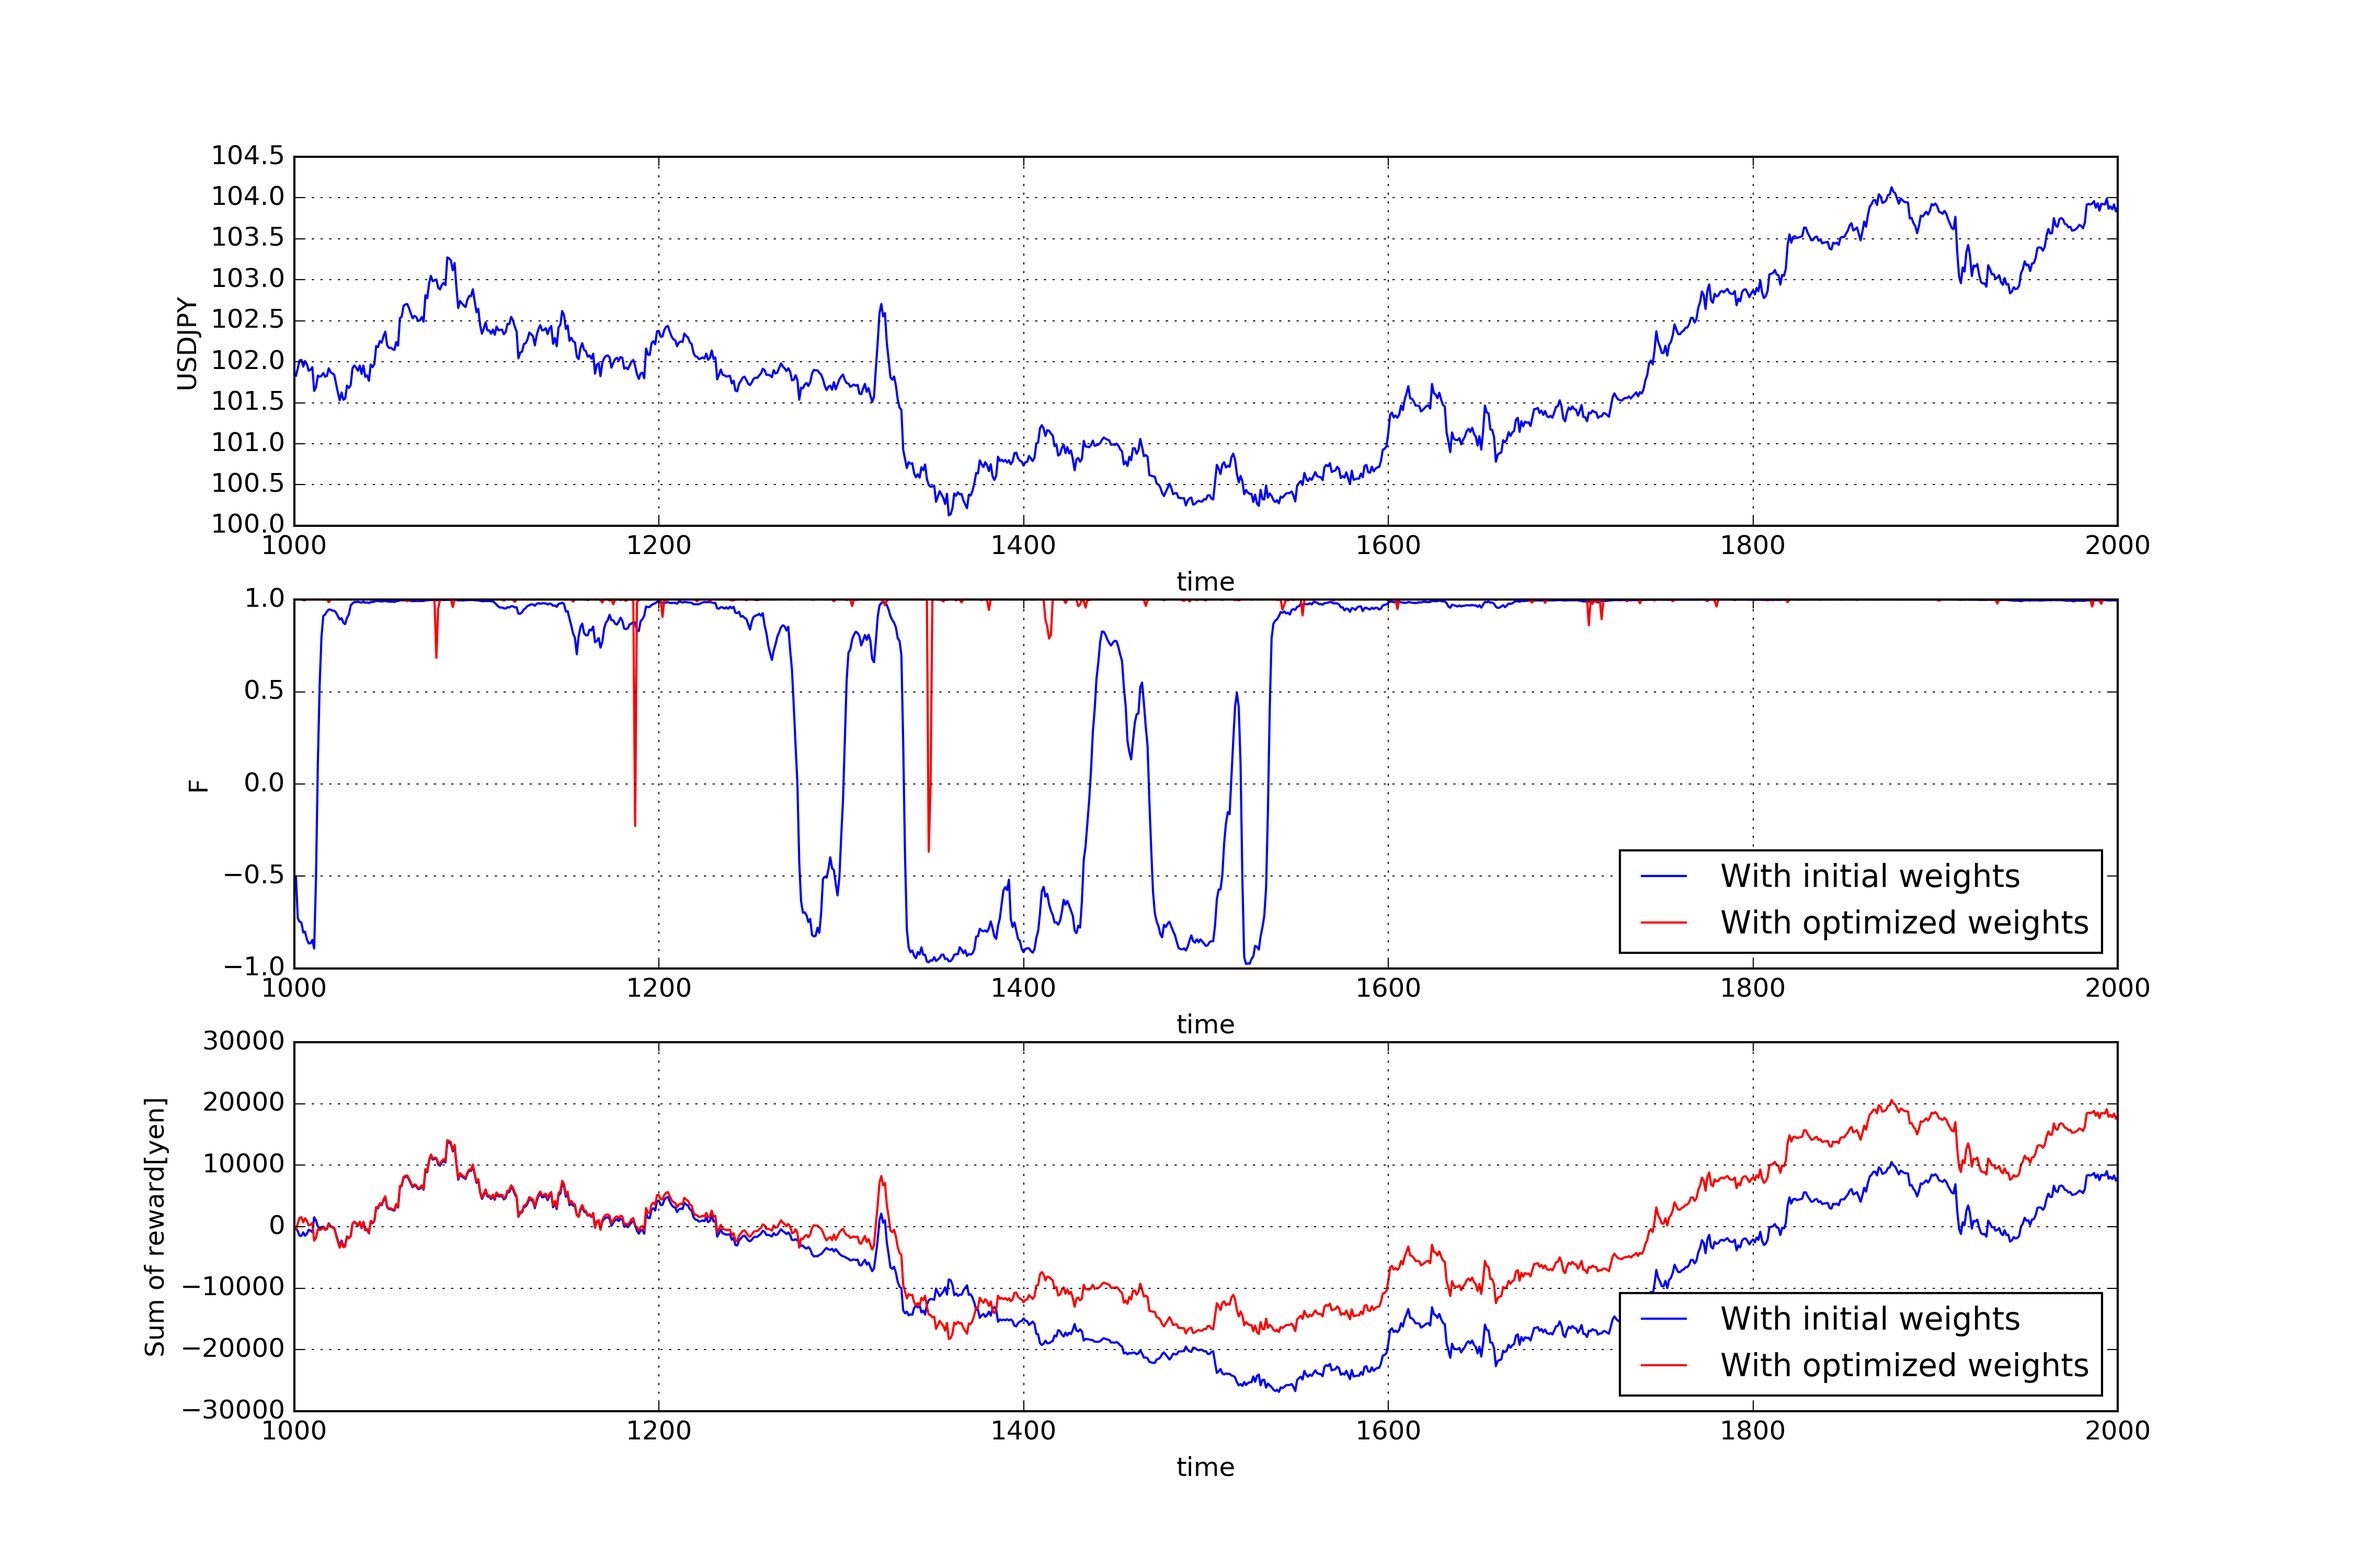
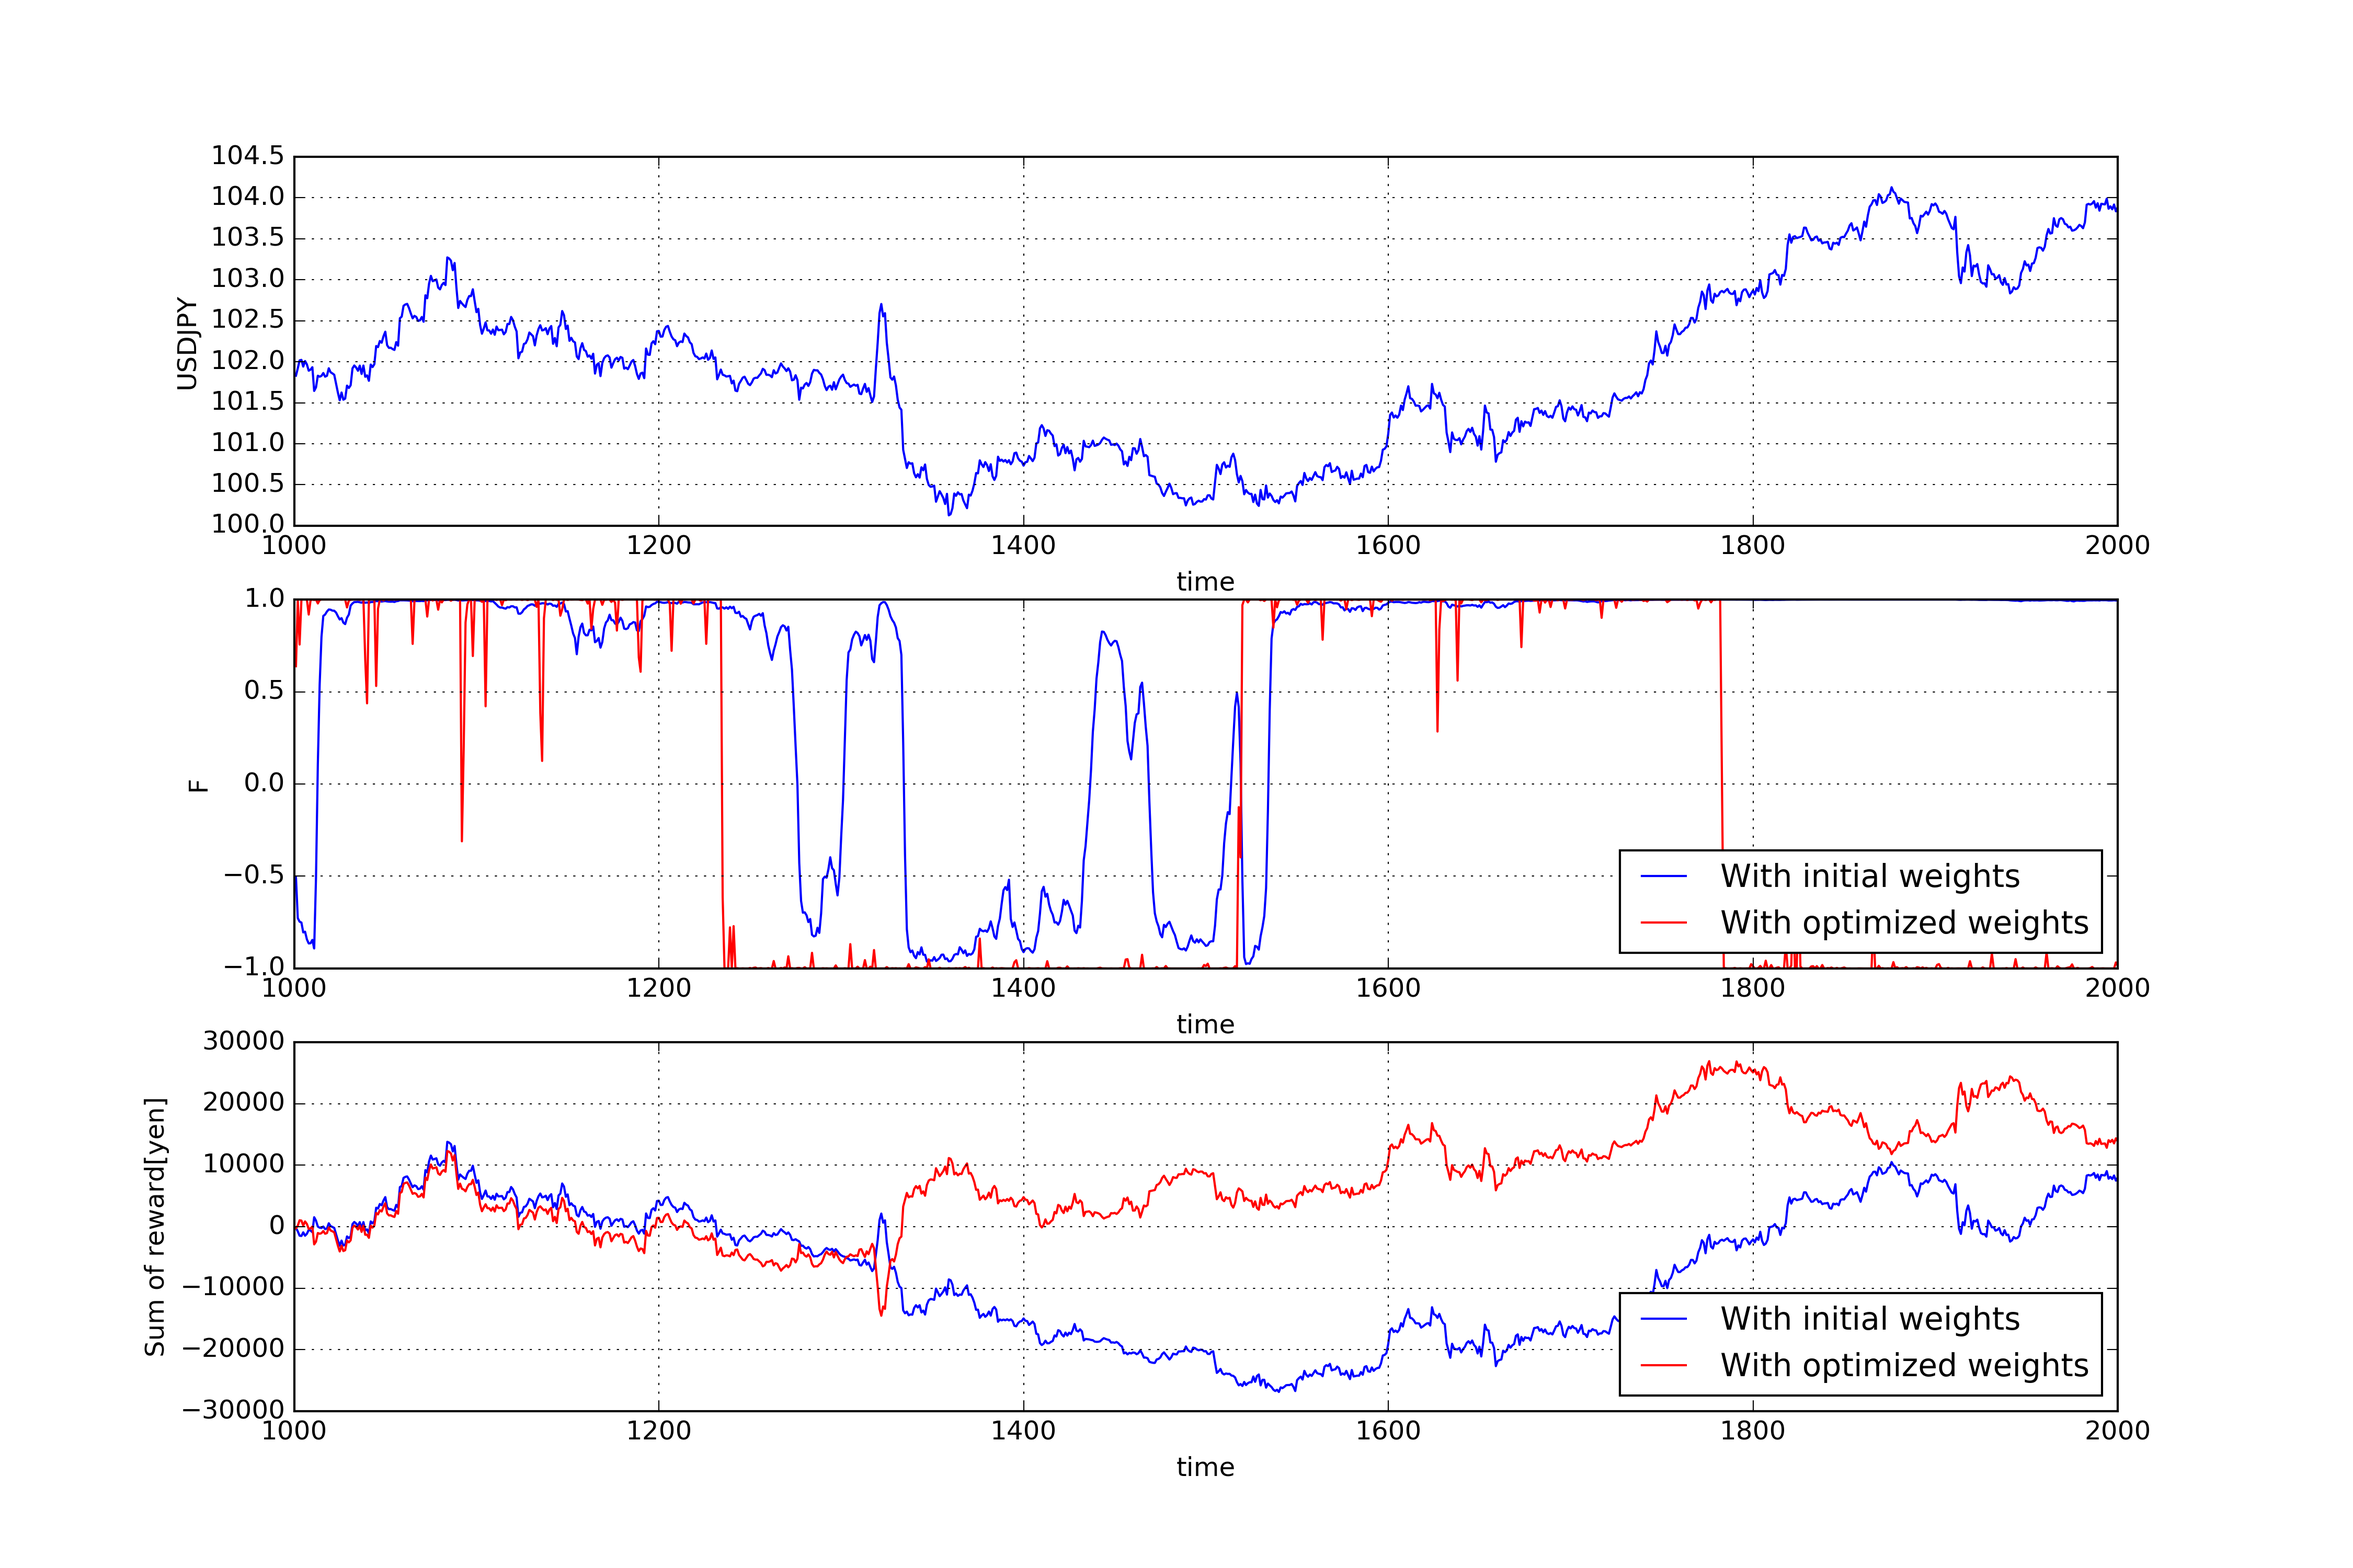
Modify GA fit.

diff --git a/06_ga_optimizer/main.py b/06_ga_optimizer/main.py
@@ -28,66 +28,23 @@ def main():
     rrl.all_p = ini_rrl.all_p
     rrl.set_t_p_r()
     
-    #----GA fit
-    import random
-
-    from deap import algorithms
-    from deap import base
-    from deap import creator
-    from deap import tools
-
-    creator.create("FitnessMax", base.Fitness, weights=(1.0,))
-    creator.create("Individual", np.ndarray, fitness=creator.FitnessMax)
-
-    toolbox = base.Toolbox()
-
-    # toolbox.register("attr_bool", random.randint, 0, 1)
-    toolbox.register("attr_bool", random.uniform, -3, 3)
-    toolbox.register("individual", tools.initRepeat, creator.Individual, toolbox.attr_bool, n=M+2)
-    toolbox.register("population", tools.initRepeat, list, toolbox.individual)
-
-    def evalOneMax(individual):
-        return rrl.calc_S(individual),
-    #     return sum(individual),
-
-    def cxTwoPointCopy(ind1, ind2):
-        size = len(ind1)
-        cxpoint1 = random.randint(1, size)
-        cxpoint2 = random.randint(1, size - 1)
-        if cxpoint2 >= cxpoint1:
-            cxpoint2 += 1
-        else: # Swap the two cx points
-            cxpoint1, cxpoint2 = cxpoint2, cxpoint1
-
-        ind1[cxpoint1:cxpoint2], ind2[cxpoint1:cxpoint2] \
-            = ind2[cxpoint1:cxpoint2].copy(), ind1[cxpoint1:cxpoint2].copy()
-
-        return ind1, ind2
-
-
-    toolbox.register("evaluate", evalOneMax)
-    toolbox.register("mate", cxTwoPointCopy)
-    toolbox.register("mutate", tools.mutFlipBit, indpb=0.05)
-    toolbox.register("select", tools.selTournament, tournsize=3)
-
-
-    random.seed(64)
-
-    pop = toolbox.population(n=100)
-    hof = tools.HallOfFame(1, similar=np.array_equal)
-
-    stats = tools.Statistics(lambda ind: ind.fitness.values)
-    stats.register("avg", np.mean)
-    stats.register("std", np.std)
-    stats.register("min", np.min)
-    stats.register("max", np.max)
-
-    population, logbook = algorithms.eaSimple(pop, toolbox, cxpb=0.5, mutpb=0.2, ngen=100, stats=stats, halloffame=hof)
-
+    #--- GA fit
+    min_w = np.ones(M+2)*-3.0
+    max_w= np.ones(M+2)*3.0
+    min_w[0]     = -5.0
+    max_w[0]     =  5.0
+    min_w[M+2-1] = -5.0
+    max_w[M+2-1] =  5.0
+    
+    npop = 100
+    ngen = 100
+    random_state = 64
+    rrl, population, logbook = ga_fit(rrl, min_w, max_w, random_state, npop, ngen)
+    
     # Plot results.
     # Training for initial term T.
-    df =pd.DataFrame(logbook)
-    plt.plot((df["gen"])*100,df["max"])
+    df = pd.DataFrame(logbook)
+    plt.plot((df["gen"])*npop,df["max"])
     plt.title("Sharp's ratio optimization")
     plt.xlabel("Epoch times")
     plt.ylabel("Sharp's ratio")
@@ -157,6 +114,66 @@ def main():
     ax[2].grid(True)
     plt.savefig("rrl_prediction.png", dpi=300)
     fig.clear()
+
+
+def ga_fit(_rrl, min_ind, max_ind, random_state, npop, ngen):
+    import random
+
+    from deap import algorithms
+    from deap import base
+    from deap import creator
+    from deap import tools
+
+    creator.create("FitnessMax", base.Fitness, weights=(1.0,))
+    creator.create("Individual", np.ndarray, fitness=creator.FitnessMax)
+
+    toolbox = base.Toolbox()
+
+    def set_ind_range(min_ind, max_ind):
+        _ind = []
+        for min, max in zip(min_ind, max_ind):
+            _ind.append(random.uniform(min, max))
+        return _ind
+
+    toolbox.register("ranged_ind", set_ind_range, min_ind, max_ind)
+    toolbox.register("individual", tools.initIterate, creator.Individual, toolbox.ranged_ind)
+    toolbox.register("population", tools.initRepeat, list, toolbox.individual)
+
+    def evalOneMax(individual):
+        return _rrl.calc_S(individual),
+
+    def cxTwoPointCopy(ind1, ind2):
+        size = len(ind1)
+        cxpoint1 = random.randint(1, size)
+        cxpoint2 = random.randint(1, size - 1)
+        if cxpoint2 >= cxpoint1:
+            cxpoint2 += 1
+        else: # Swap the two cx points
+            cxpoint1, cxpoint2 = cxpoint2, cxpoint1
+
+        ind1[cxpoint1:cxpoint2], ind2[cxpoint1:cxpoint2] = ind2[cxpoint1:cxpoint2].copy(), ind1[cxpoint1:cxpoint2].copy()
+
+        return ind1, ind2
+
+    toolbox.register("evaluate", evalOneMax)
+    toolbox.register("mate", cxTwoPointCopy)
+    toolbox.register("mutate", tools.mutFlipBit, indpb=0.05)
+    toolbox.register("select", tools.selTournament, tournsize=3)
+
+    random.seed(random_state)
+
+    pop = toolbox.population(n=npop)
+    hof = tools.HallOfFame(1, similar=np.array_equal)
+
+    stats = tools.Statistics(lambda ind: ind.fitness.values)
+    stats.register("avg", np.mean)
+    stats.register("std", np.std)
+    stats.register("min", np.min)
+    stats.register("max", np.max)
+
+    _population, _logbook = algorithms.eaSimple(pop, toolbox, cxpb=0.5, mutpb=0.2, ngen=ngen, stats=stats, halloffame=hof)
+    
+    return _rrl, _population, _logbook
 
 if __name__ == "__main__":
     main()
